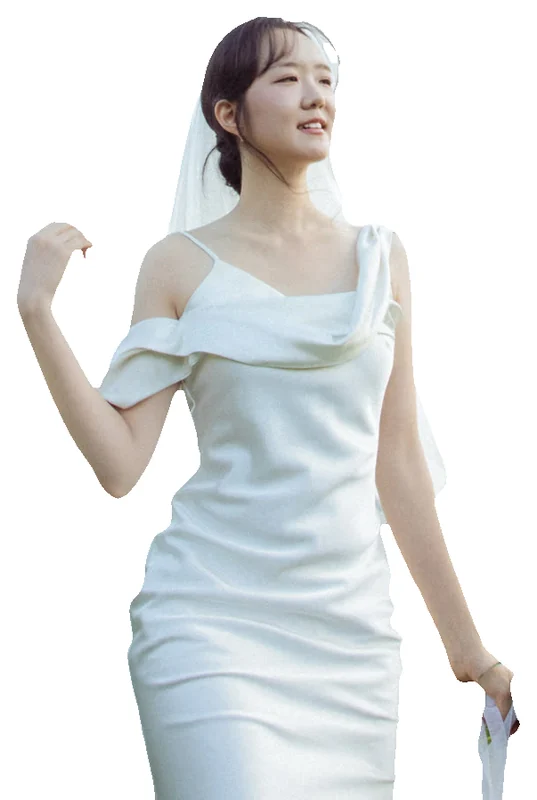
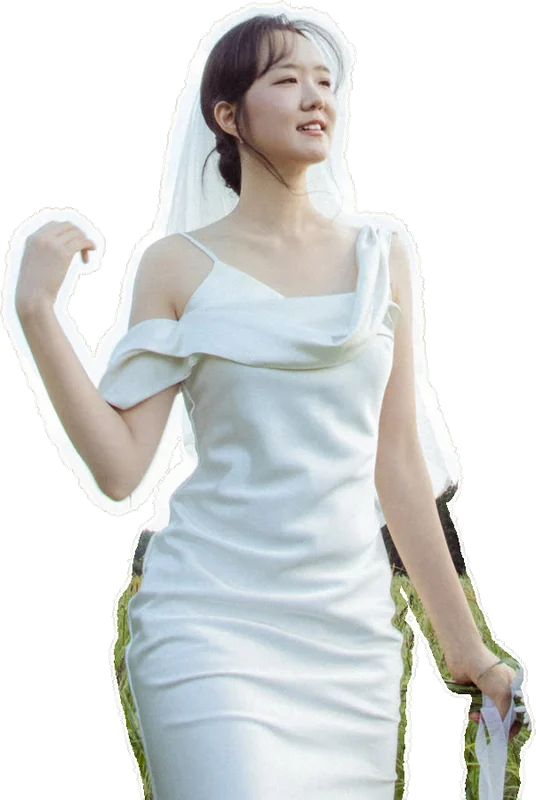
두 사람 사진을 사진째 찢은 모양으로, 사이에 찢은 부케
- 신랑·신부 사진: 매끈한 흰 테두리 대신 사진째 손으로 찢은 모양(사람 둘레에 배경이 들쭉날쭉 남고 찢긴 흰 결·회색 단면)
- 가운데 부케: photo-02의 실제 부케를 SAM으로 떼어 사람과 같은 설정으로 찢음, 손 높이(신랑 손 ↔ 신부 팔꿈치)에 폭 36px
  (320·390·430px 화면에서 사람과 겹치는 픽셀 0 확인)
- scripts/BuildCutouts.py: 사람과 부케가 같은 찢기 함수를 씀, `bouquet` 대상 추가 (정리 후에도 사람 사진은 픽셀 단위로 같음)
- BuildSite.py가 photo-02-bouquet-cut.webp도 복사
- 스펙·테스트 반영

Claude-Session: https://claude.ai/code/session_01EyZb1duiBYcfxHhYvZc15u

diff --git a/src/__tests__/InvitationSections.test.ts b/src/__tests__/InvitationSections.test.ts
@@ -311,9 +311,9 @@ describe('site/ (deploy build)', () => {
 
   it('ships the cut-out photos the families section shows', () => {
     const page = readFileSync(resolve(SITE_DIR, 'index.html'), 'utf-8');
-    const cutNames = [...new Set([...page.matchAll(/photos\/(photo-\d{2}-cut\.webp)/g)].map((match) => match[1]))];
+    const cutNames = [...new Set([...page.matchAll(/photos\/(photo-\d{2}(?:-bouquet)?-cut\.webp)/g)].map((match) => match[1]))];
 
-    expect(cutNames.sort()).toEqual(['photo-09-cut.webp', 'photo-10-cut.webp']);
+    expect(cutNames.sort()).toEqual(['photo-02-bouquet-cut.webp', 'photo-09-cut.webp', 'photo-10-cut.webp']);
 
     cutNames.forEach((name) => {
       expect(existsSync(resolve(SITE_DIR, 'photos', name)), name).toBe(true);
@@ -760,10 +760,25 @@ describe('Families.html', () => {
     expect(source).toMatch(/\.families__cutout \{[^}]*height: min\(66vw, 260px\)/);
   });
 
-  it('shows each person cut out along their outline, described', () => {
+  it('puts their torn bouquet small between the two people, as decoration', () => {
+    const section = mountSection('Families.html');
+    const bouquet = section.querySelector('img.families__bouquet');
+    const source = readStudy('Families.html');
+
+    expect(bouquet?.getAttribute('src')).toBe('photos/photo-02-bouquet-cut.webp');
+    expect(bouquet?.getAttribute('alt')).toBe('');
+    expect(bouquet?.parentElement).toBe(section);
+    expect(bouquet?.closest('.families__family')).toBeNull();
+    expect(source).toMatch(/\.families__bouquet \{[^}]*position: absolute;[^}]*left: 50%;[^}]*top: calc\(64px \+ min\(66vw, 260px\) \* 0\.58\);[^}]*width: 36px;/);
+    expect(existsSync(resolve(STUDIES_DIR, 'photos', 'photo-02-bouquet-cut.webp'))).toBe(true);
+    expect(existsSync(resolve(STUDIES_DIR, 'illustrations', 'hearts.png'))).toBe(false);
+  });
+
+  it('shows each person torn out along their outline, described', () => {
     const section = mountSection('Families.html');
 
-    section.querySelectorAll('img').forEach((image) => {
+    expect(section.querySelectorAll('img:not(.families__bouquet)')).toHaveLength(2);
+    section.querySelectorAll('img:not(.families__bouquet)').forEach((image) => {
       expect(image.classList.contains('families__cutout')).toBe(true);
       expect(image.getAttribute('alt')).toMatch(/신랑|신부/);
       expect(image.getAttribute('loading')).toBe('lazy');

diff --git a/docs/cover-studies/Families.html b/docs/cover-studies/Families.html
@@ -8,10 +8,11 @@
 <link rel="stylesheet" href="SectionKit.css">
 <style>
   /* Families: right after the greeting. The two families stand side by side (groom left, bride right), each a
-     cut-out photo with its parents and name below; the user found them stacked too empty. The user's second
+     torn-out photo with its parents and name below; the user found them stacked too empty. The user's second
      reference shows only the cutting; its envelope and hearts are not used. No letters or stickers either. */
 
   .families {
+    position: relative;
     display: grid;
     grid-template-columns: repeat(2, minmax(0, 1fr));
     align-items: end;
@@ -39,6 +40,21 @@
     filter: drop-shadow(0 3px 5px rgba(40, 30, 20, 0.22));
   }
 
+  /* Their own bouquet (photo-02), torn like the two photos, small in the gap at hand height: the groom's hands and
+     the bride's raised elbow (SectionsSpec 2-1b). The section's top padding is 64px; 58% of the photo height below
+     that. Higher, at the shoulders, the bride's raised arm leaves no room. Checked on 320, 390 and 430px phones not
+     to touch either photo, even 4px around it. */
+  .families__bouquet {
+    position: absolute;
+    left: 50%;
+    top: calc(64px + min(66vw, 260px) * 0.58);
+    width: 36px;
+    height: auto;
+    transform: translateX(calc(-50% - 4px)) rotate(-6deg);
+    filter: drop-shadow(0 3px 5px rgba(40, 30, 20, 0.22));
+    pointer-events: none;
+  }
+
   .families__parents {
     margin: 16px 0 0;
     color: var(--soft);
@@ -61,6 +77,8 @@
 </style>
 
 <section class="section families" aria-label="두 사람">
+  <img class="families__bouquet" src="photos/photo-02-bouquet-cut.webp" width="240" height="242" alt="" loading="lazy" decoding="async">
+
   <div class="families__family">
     <img class="families__cutout" src="photos/photo-10-cut.webp" width="348" height="800" loading="lazy" decoding="async" alt="들판에 홀로 선 신랑">
     <p class="families__parents">서재호 &amp; 김선교의</p>

diff --git a/docs/cover-studies/Invitation.html b/docs/cover-studies/Invitation.html
@@ -836,10 +836,11 @@
   }
 
   /* Families: right after the greeting. The two families stand side by side (groom left, bride right), each a
-     cut-out photo with its parents and name below; the user found them stacked too empty. The user's second
+     torn-out photo with its parents and name below; the user found them stacked too empty. The user's second
      reference shows only the cutting; its envelope and hearts are not used. No letters or stickers either. */
 
   .families {
+    position: relative;
     display: grid;
     grid-template-columns: repeat(2, minmax(0, 1fr));
     align-items: end;
@@ -865,6 +866,21 @@
     object-fit: contain;
     object-position: bottom;
     filter: drop-shadow(0 3px 5px rgba(40, 30, 20, 0.22));
+  }
+
+  /* Their own bouquet (photo-02), torn like the two photos, small in the gap at hand height: the groom's hands and
+     the bride's raised elbow (SectionsSpec 2-1b). The section's top padding is 64px; 58% of the photo height below
+     that. Higher, at the shoulders, the bride's raised arm leaves no room. Checked on 320, 390 and 430px phones not
+     to touch either photo, even 4px around it. */
+  .families__bouquet {
+    position: absolute;
+    left: 50%;
+    top: calc(64px + min(66vw, 260px) * 0.58);
+    width: 36px;
+    height: auto;
+    transform: translateX(calc(-50% - 4px)) rotate(-6deg);
+    filter: drop-shadow(0 3px 5px rgba(40, 30, 20, 0.22));
+    pointer-events: none;
   }
 
   .families__parents {
@@ -1533,6 +1549,8 @@
 </section>
 
 <section class="section families" aria-label="두 사람">
+  <img class="families__bouquet" src="photos/photo-02-bouquet-cut.webp" width="240" height="242" alt="" loading="lazy" decoding="async">
+
   <div class="families__family">
     <img class="families__cutout" src="photos/photo-10-cut.webp" width="348" height="800" loading="lazy" decoding="async" alt="들판에 홀로 선 신랑">
     <p class="families__parents">서재호 &amp; 김선교의</p>

diff --git a/scripts/BuildCutouts.py b/scripts/BuildCutouts.py
@@ -1,83 +1,166 @@
-"""두 사람 영역의 사람 모양 사진(photo-NN-cut.webp)을 만든다.
+"""두 사람 영역의 찢은 사진: 신랑·신부(photo-NN-cut.webp)와 가운데 부케(photo-02-bouquet-cut.webp) (docs/SectionsSpec.md 2-1b).
 
-원본 photos/photo-NN.jpg에서 배경을 지우고(rembg, BiRefNet portrait 모델), 사람 둘레에 흰 테두리를 두른 뒤
-배경이 투명한 WebP로 저장한다. 그림자는 페이지 CSS(drop-shadow)가 맡으므로 넣지 않는다.
+원본 사진에서 대상을 찾고(사람은 rembg BiRefNet portrait, 부케는 rembg SAM에 점으로 부케를 지정), 사진째 손으로 찢은 것처럼
+둘레에 배경을 들쭉날쭉한 띠로 남긴 뒤 찢긴 흰 종이 결을 두른다. 사람과 부케는 같은 찢기 설정을 쓴다.
+배경이 투명한 WebP로 저장한다. 그림자는 페이지 CSS(drop-shadow)가 맡는다. 흔들림은 시드가 정해진 난수라 몇 번을 돌려도 같다.
 
-    pip install "rembg[cpu]" pillow numpy
-    python3 scripts/BuildCutouts.py        # 두 장 모두
-    python3 scripts/BuildCutouts.py 09     # 한 장만 (메모리가 모자라면 한 장씩)
+    pip install "rembg[cpu]" pillow numpy scipy
+    python3 scripts/BuildCutouts.py            # 사람 두 장과 부케
+    python3 scripts/BuildCutouts.py 09         # 하나만 (메모리가 모자라면 하나씩: 10, 09, bouquet)
+    python3 scripts/BuildCutouts.py bouquet
 
-모델은 처음 실행할 때 GitHub(danielgatis/rembg 릴리스)에서 받는다. 원본 사진이 바뀌었을 때만 다시 돌리고 결과를 커밋한다.
+모델은 처음 실행할 때 GitHub(danielgatis/rembg 릴리스)에서 받는다. 원본이 바뀌었을 때만 다시 돌리고 결과를 커밋한다.
 """
 
 import sys
 from pathlib import Path
 
 import numpy as np
-from PIL import Image, ImageFilter
-from rembg import new_session, remove
+from PIL import Image
+from scipy import ndimage
 
-PHOTOS = Path(__file__).resolve().parent.parent / 'docs' / 'cover-studies' / 'photos'
+STUDIES = Path(__file__).resolve().parent.parent / 'docs' / 'cover-studies'
+PHOTOS = STUDIES / 'photos'
 
-# 신랑 10번, 신부 9번 (SectionsSpec 2-1b).
-PHOTO_NUMBERS = ['10', '09']
+# 신랑 10번, 신부 9번과 각자의 찢기 시드 (사용자가 고른 시안과 같은 모양).
+PHOTO_SEEDS = {'10': 7, '09': 11}
 
 MODEL = 'birefnet-portrait'
 
-# 흰 테두리 두께(원본 사진 픽셀). 사용자가 비교한 세 두께(6·12·18) 중 중간.
-BORDER = 12
+# 사람으로 볼 알파 값.
+PERSON_ALPHA = 110
 
-# 사람 가장자리에서 안쪽으로 깎는 폭. 반투명 가장자리에 남는 풀밭 초록빛을 흰 테두리가 덮게 한다.
-EDGE_TRIM = 2
+# 남는 배경 띠 = 사람에서 BAND_BASE ± BAND_SWING(크게) ± BAND_MID(중간) ± BAND_TEETH(잔 톱니), 원본 사진 픽셀.
+BAND_BASE = 11
+BAND_SWING = 7
+BAND_MID = 3
+BAND_TEETH = 1.5
 
-# 페이지에서 높이 400px로 보이므로 2배 화면을 위해 높이 800px로 줄여 저장한다.
+# 그 바깥의 찢긴 흰 결 = FIBER_BASE + 최대 FIBER_MID + 잔 톱니 FIBER_TEETH. 맨 바깥 EDGE_PX는 옅은 회색.
+FIBER_BASE = 5
+FIBER_MID = 2.5
+FIBER_TEETH = 2.5
+EDGE_PX = 2
+PAPER = (252, 251, 248, 255)
+PAPER_EDGE = (226, 224, 219, 255)
+
+# 흔들림을 만드는 잡음의 결 크기(가우시안 반경, 픽셀): 크게, 중간, 잔 톱니.
+NOISE_SCALES = (40, 6, 1.2)
+PAD = 60
+
+# 페이지에서 높이 260px 남짓으로 보이므로 높은 화면 밀도를 생각해 높이 800px로 줄여 저장한다.
 OUTPUT_HEIGHT = 800
-
 WEBP_QUALITY = 86
 
-
-def build_cutout(source: Path) -> Image.Image:
-    person = remove(Image.open(source).convert('RGB'), session=SESSION, post_process_mask=True).convert('RGBA')
-    width, height = person.size
-    pad = BORDER * 2
-
-    mask = person.getchannel('A').point(lambda value: 255 if value > 110 else 0)
-    canvas_mask = Image.new('L', (width + pad * 2, height + pad * 2), 0)
-    canvas_mask.paste(mask, (pad, pad))
-
-    # 둥근 바깥선: 넓힌 뒤 흐렸다가 다시 잘라 모서리를 부드럽게.
-    outline = (
-        canvas_mask.filter(ImageFilter.MaxFilter(BORDER * 2 + 1))
-        .filter(ImageFilter.GaussianBlur(BORDER * 0.45))
-        .point(lambda value: 255 if value > 100 else 0)
-        .filter(ImageFilter.GaussianBlur(1))
-    )
-    # 원본 사진이 사람을 자른 아래쪽은 테두리 없이 일자로 끊는다.
-    outline_pixels = np.array(outline)
-    outline_pixels[pad + height:, :] = 0
-    outline = Image.fromarray(outline_pixels)
-
-    result = Image.new('RGBA', outline.size, (255, 255, 255, 0))
-    white = Image.new('RGBA', outline.size, (255, 255, 255, 255))
-    white.putalpha(outline)
-    result.alpha_composite(white)
-
-    person_alpha = person.getchannel('A').filter(ImageFilter.MinFilter(EDGE_TRIM * 2 + 1))
-    person.putalpha(person_alpha)
-    layer = Image.new('RGBA', outline.size, (0, 0, 0, 0))
-    layer.paste(person, (pad, pad))
-    result.alpha_composite(layer)
-
-    result = result.crop(result.getbbox())
-    scale = OUTPUT_HEIGHT / result.height
-
-    return result.resize((round(result.width * scale), OUTPUT_HEIGHT), Image.Resampling.LANCZOS)
+# 부케: photo-02에서 부케가 든 부분(원본 픽셀 상자), 그 안에서 부케(꽃)와 부케 아닌 곳(손·정장·하늘·숲·풀·리본)을 찍은 점,
+# 찢기 시드, 저장 폭. 손에 가려 끊긴 줄기는 넣지 않고 가장 큰 덩어리(꽃다발)만 쓴다.
+BOUQUET_PHOTO = '02'
+BOUQUET_BOX = (288, 373, 672, 1012)
+BOUQUET_POINTS = [(150, 200), (220, 200), (240, 260), (180, 300), (260, 320), (200, 250), (300, 230), (130, 190), (290, 450), (270, 470), (230, 150)]
+NOT_BOUQUET_POINTS = [(310, 400), (365, 250), (30, 100), (40, 350), (100, 560), (220, 530), (365, 450)]
+BOUQUET_SEED = 13
+BOUQUET_OUTPUT_WIDTH = 240
 
 
-SESSION = new_session(MODEL)
+def smooth_noise(rng: np.random.Generator, shape: tuple, scale: float) -> np.ndarray:
+    field = ndimage.gaussian_filter(rng.standard_normal(shape), scale)
 
-for number in sys.argv[1:] or PHOTO_NUMBERS:
-    target = PHOTOS / f'photo-{number}-cut.webp'
-    cutout = build_cutout(PHOTOS / f'photo-{number}.jpg')
-    cutout.save(target, 'WEBP', quality=WEBP_QUALITY, method=6)
-    print(f'{target.name}: {cutout.width}x{cutout.height}, {target.stat().st_size // 1024}KB')
+    return field / (np.abs(field).max() + 1e-9)
+
+
+def paint_paper(canvas: np.ndarray, paper: np.ndarray) -> None:
+    """찢긴 종이 속살(흰색)과, 단면처럼 보이는 바깥 가장자리의 옅은 회색을 칠한다."""
+    canvas[paper] = PAPER
+    edge = paper & ~ndimage.binary_erosion(paper, iterations=EDGE_PX)
+    canvas[edge] = PAPER_EDGE
+
+
+def tear(photo: np.ndarray, alpha: np.ndarray, seed: int) -> Image.Image:
+    """Tears the photo around the object (alpha 0..255 over the photo) and returns it cropped to what is left."""
+    height, width = alpha.shape
+    subject = alpha > PERSON_ALPHA
+
+    rng = np.random.default_rng(seed)
+    shape = (height + 2 * PAD, width + 2 * PAD)
+    low, mid, fine = (smooth_noise(rng, shape, scale) for scale in NOISE_SCALES)
+
+    padded_subject = np.zeros(shape, bool)
+    padded_subject[PAD:PAD + height, PAD:PAD + width] = subject
+    distance = ndimage.distance_transform_edt(~padded_subject)
+
+    reach = BAND_BASE + BAND_SWING * low + BAND_MID * mid + BAND_TEETH * fine
+    band = distance <= reach
+    paper = distance <= reach + FIBER_BASE + FIBER_MID * np.abs(mid) + FIBER_TEETH * fine
+
+    # 원본 사진이 잘린 가장자리(사람의 아래쪽 등)는 찢지 않고 일자로 둔다.
+    band[PAD + height:, :] = False
+    paper[PAD + height:, :] = False
+
+    canvas = np.zeros((*shape, 4), np.uint8)
+    paint_paper(canvas, paper)
+
+    padded_photo = np.zeros((*shape, 3), np.uint8)
+    padded_photo[PAD:PAD + height, PAD:PAD + width] = photo
+    canvas[band, :3] = padded_photo[band]
+    canvas[band, 3] = 255
+
+    # 대상을 맨 위에. 가장자리 1px을 깎아 배경 경계가 겹쳐 보이지 않게 한다.
+    cover = np.zeros(shape, np.float32)
+    cover[PAD:PAD + height, PAD:PAD + width] = alpha / 255 * ndimage.binary_erosion(subject, iterations=1)
+
+    for channel in range(3):
+        canvas[..., channel] = (padded_photo[..., channel] * cover + canvas[..., channel] * (1 - cover)).astype(np.uint8)
+
+    canvas[..., 3] = np.maximum(canvas[..., 3], (cover * 255).astype(np.uint8))
+
+    image = Image.fromarray(canvas, 'RGBA')
+
+    return image.crop(image.getbbox())
+
+
+def build_person(number: str, session) -> Image.Image:
+    from rembg import remove
+
+    photo = Image.open(PHOTOS / f'photo-{number}.jpg').convert('RGB')
+    cut = np.array(remove(photo, session=session, post_process_mask=True).convert('RGBA'))
+    image = tear(np.array(photo), cut[..., 3], PHOTO_SEEDS[number])
+
+    return image.resize((round(image.width * OUTPUT_HEIGHT / image.height), OUTPUT_HEIGHT), Image.Resampling.LANCZOS)
+
+
+def build_bouquet() -> Image.Image:
+    from rembg import new_session, remove
+
+    photo = Image.open(PHOTOS / f'photo-{BOUQUET_PHOTO}.jpg').convert('RGB').crop(BOUQUET_BOX)
+    prompt = [{'type': 'point', 'data': list(point), 'label': 1} for point in BOUQUET_POINTS]
+    prompt += [{'type': 'point', 'data': list(point), 'label': 0} for point in NOT_BOUQUET_POINTS]
+    cut = np.array(remove(photo, session=new_session('sam'), sam_prompt=prompt, post_process_mask=True).convert('RGBA'))
+
+    # 꽃다발 한 덩어리만: 잔 조각을 걷어내고 가장 큰 덩어리를 남긴다.
+    mask = ndimage.binary_opening(cut[..., 3] > PERSON_ALPHA, iterations=2)
+    labels, _ = ndimage.label(mask)
+    biggest = labels == np.bincount(labels.ravel())[1:].argmax() + 1
+    image = tear(np.array(photo), np.where(biggest, 255, 0).astype(np.float32), BOUQUET_SEED)
+
+    return image.resize((BOUQUET_OUTPUT_WIDTH, round(image.height * BOUQUET_OUTPUT_WIDTH / image.width)), Image.Resampling.LANCZOS)
+
+
+def save_webp(image: Image.Image, target: Path) -> None:
+    image.save(target, 'WEBP', quality=WEBP_QUALITY, method=6)
+    print(f'{target.name}: {image.width}x{image.height}, {target.stat().st_size // 1024}KB')
+
+
+targets = sys.argv[1:] or [*PHOTO_SEEDS, 'bouquet']
+
+if 'bouquet' in targets:
+    save_webp(build_bouquet(), PHOTOS / f'photo-{BOUQUET_PHOTO}-bouquet-cut.webp')
+
+people = [target for target in targets if target in PHOTO_SEEDS]
+
+if people:
+    from rembg import new_session
+
+    SESSION = new_session(MODEL)
+
+    for number in people:
+        save_webp(build_person(number, SESSION), PHOTOS / f'photo-{number}-cut.webp')

diff --git a/scripts/BuildSite.py b/scripts/BuildSite.py
@@ -111,8 +111,8 @@ documents = {
 every_page = '\n'.join(documents.values())
 
 # Photos named in the pages: the greeting stamp's photo-12.jpg and photo-04.jpg, the photos section's small copies
-# and the families section's cut-outs (photo-NN-cut.webp).
-used = set(re.findall(r'photos/(photo-\d+(?:-sm)?\.jpg|photo-\d+-cut\.webp)', every_page))
+# and the families section's torn cut-outs (photo-NN-cut.webp, photo-02-bouquet-cut.webp).
+used = set(re.findall(r'photos/(photo-\d+(?:-sm)?\.jpg|photo-\d+(?:-bouquet)?-cut\.webp)', every_page))
 
 # The photos section opens each small photo (photo-NN-sm.jpg) as its original (photo-NN.jpg) in the full view,
 # so every small copy the page names ships with its original.

diff --git a/docs/SectionsSpec.md b/docs/SectionsSpec.md
@@ -77,21 +77,25 @@
 
 ### 2-1b. 두 사람 (제목 없음) — `Families.html`
 
-인사말 바로 뒤. 사용자가 준 참고 이미지(혼주 이름 → 신랑·신부 이름 → 사진 한 장)의 내용만 가져오고, 두 집안은 위아래가 아니라 좌우로 나란히 둔다(사용자 요청: 위아래로 쌓으면 사진이 어정쩡하고 비어 보임). 참고 이미지의 손글씨 편지·하트 스티커는 넣지 않는다. 사진은 사용자가 준 두 번째 참고 이미지(아이 사진 두 장)의 자른 방식만 따라 사람 모양으로 오린다(봉투·하트는 가져오지 않음).
+인사말 바로 뒤. 사용자가 준 참고 이미지(혼주 이름 → 신랑·신부 이름 → 사진 한 장)의 내용만 가져오고, 두 집안은 위아래가 아니라 좌우로 나란히 둔다(사용자 요청: 위아래로 쌓으면 사진이 어정쩡하고 비어 보임). 참고 이미지의 손글씨 편지는 넣지 않는다. 사진은 사용자가 준 두 번째 참고 이미지(아이 사진 두 장)처럼 사람 모양으로 찢어 오린다(봉투는 가져오지 않음). 두 사람 사이 얼굴 높이에는 두 사람의 실제 부케를 같은 방식으로 찢어 작게 둔다(사용자 요청, 하트 시안 대신).
 
 ```
-     ( 오린 신랑 )      ( 오린 신부 )
+                  (부케)
+     ( 찢은 신랑 )      ( 찢은 신부 )
    서재호 & 김선교의   장영인 & 김혜숙의
        아들 진용           딸 하림
 ```
 
 - 두 칸을 좌우 반씩(신랑 왼쪽, 신부 오른쪽). 칸마다 오린 사진 → (16px) 혼주 줄 → 관계와 이름 줄, 칸 안에서 가운데 정렬. 두 사진은 바닥을 맞춘다.
 - 혼주 줄은 작고 흐리게(`clamp(13px, 3.7vw, 15px)` 보조색, 320px 화면에서도 한 줄), 관계와 이름 줄은 `clamp(17px, 5vw, 20px)` 잉크색.
-- 사진은 집안마다 한 장, 사람 모양으로 오린 사진(`photos/photo-NN-cut.webp`, 배경 투명).
-  - 사람 둘레에 흰 테두리를 원본 사진 기준 12px(화면에서 약 3~4px, 사용자가 비교한 세 두께 중 중간)로 두르고, 원본 사진이 사람을 자른 아래쪽은 테두리 없이 일자로 끊는다.
+- 사진은 집안마다 한 장, 사람 모양으로 손으로 찢은 사진(`photos/photo-NN-cut.webp`, 배경 투명). 사용자가 시안(매끈한 흰 테두리, 흰 테두리만 찢기, 사진째 찢기와 그 폭 세 가지) 중에서 고른 "사진째 조금 바짝 찢기"다.
+  - 사람 둘레에 원본 사진의 배경(풀밭·하늘)이 들쭉날쭉한 띠로 남는다: 원본 사진 기준 사람에서 11px ± 7px(크게 흔들림) ± 3px(중간) ± 1.5px(잔 톱니).
+  - 그 바깥에 찢긴 종이 속살처럼 흰 결(`#fcfbf8`)이 5px + 최대 2.5px 붙고, 맨 바깥 2px는 옅은 회색(`#e2e0db`)이라 찢긴 단면으로 읽힌다.
+  - 원본 사진이 사람을 자른 아래쪽은 찢지 않고 일자로 끊는다. 흔들림은 시드가 정해진 난수라 다시 만들어도 같은 모양이다.
   - 그림자는 CSS `drop-shadow`로 아래로 살짝, 옅게 하나만.
   - 높이 `min(66vw, 260px)`, 폭은 사람 모양에 따라 저절로(칸 폭을 넘지 않음).
-  - 오린 사진은 `scripts/BuildCutouts.py`로 만든다(배경 제거 모델 BiRefNet portrait, rembg). 원본 `photo-NN.jpg`가 바뀌면 다시 만든다.
+  - 찢은 사진은 `scripts/BuildCutouts.py`로 만든다(배경 제거 모델 BiRefNet portrait, rembg, 찢기는 scipy). 원본 `photo-NN.jpg`가 바뀌면 다시 만든다.
+- 부케: `photo-02`(신랑 옆에서 든 부케, 초점이 맞고 배경이 하늘이라 사용자가 photo-03·photo-15 시안과 비교해 고름)의 꽃다발 부분을 SAM(rembg, 점으로 부케를 지정)으로 떼어, 사람과 똑같은 설정으로 찢는다(배경 띠·흰 결·회색 단면 모두 같은 값). 손에 가려 끊긴 줄기는 넣지 않는다. `photos/photo-02-bouquet-cut.webp`, `BuildCutouts.py bouquet`로 만든다. 화면에서는 두 사진 사이 가운데에서 4px 왼쪽, 사진 높이의 위에서 58%(신랑 손과 신부가 든 팔꿈치 사이, 사용자 요청: 얼굴 사이 말고 손·어깨 부근)에, 폭 36px, 왼쪽으로 6° 기울임. 어깨 높이는 신부가 든 팔 때문에 겹치지 않고 놓을 자리가 없다. 두 사람 사진과 겹치지 않는다(320·390·430px 화면에서 겹치는 픽셀 0, 둘레 4px 안에도 0을 확인). 같은 옅은 그림자, 장식이라 `alt=""`.
 - 사진은 10번(혼자 선 신랑)·9번(혼자 선 신부). 사용자가 이대로 쓰기로 함(사진 영역에도 같은 사진이 있음).
 - 이 영역에 혼주가 나오므로 예식 안내에는 다시 적지 않는다.
 
